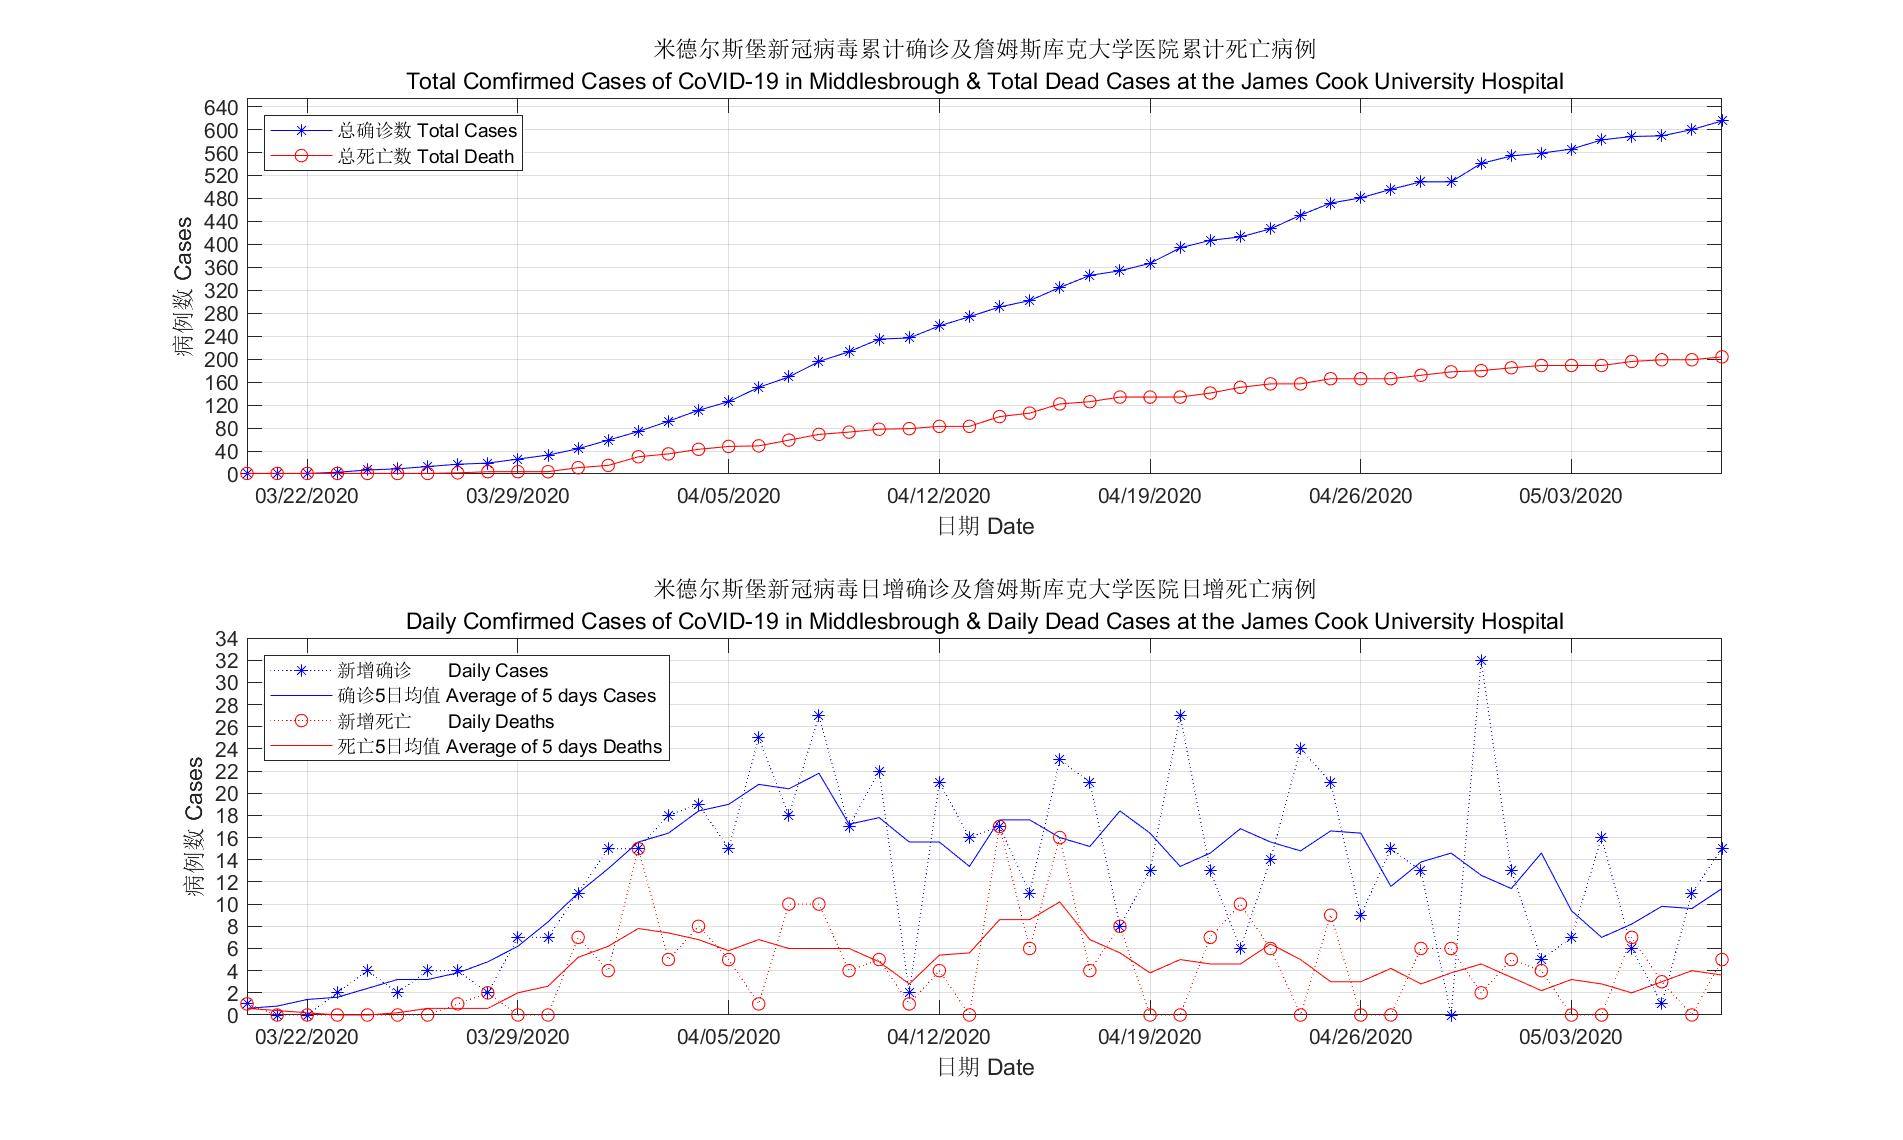
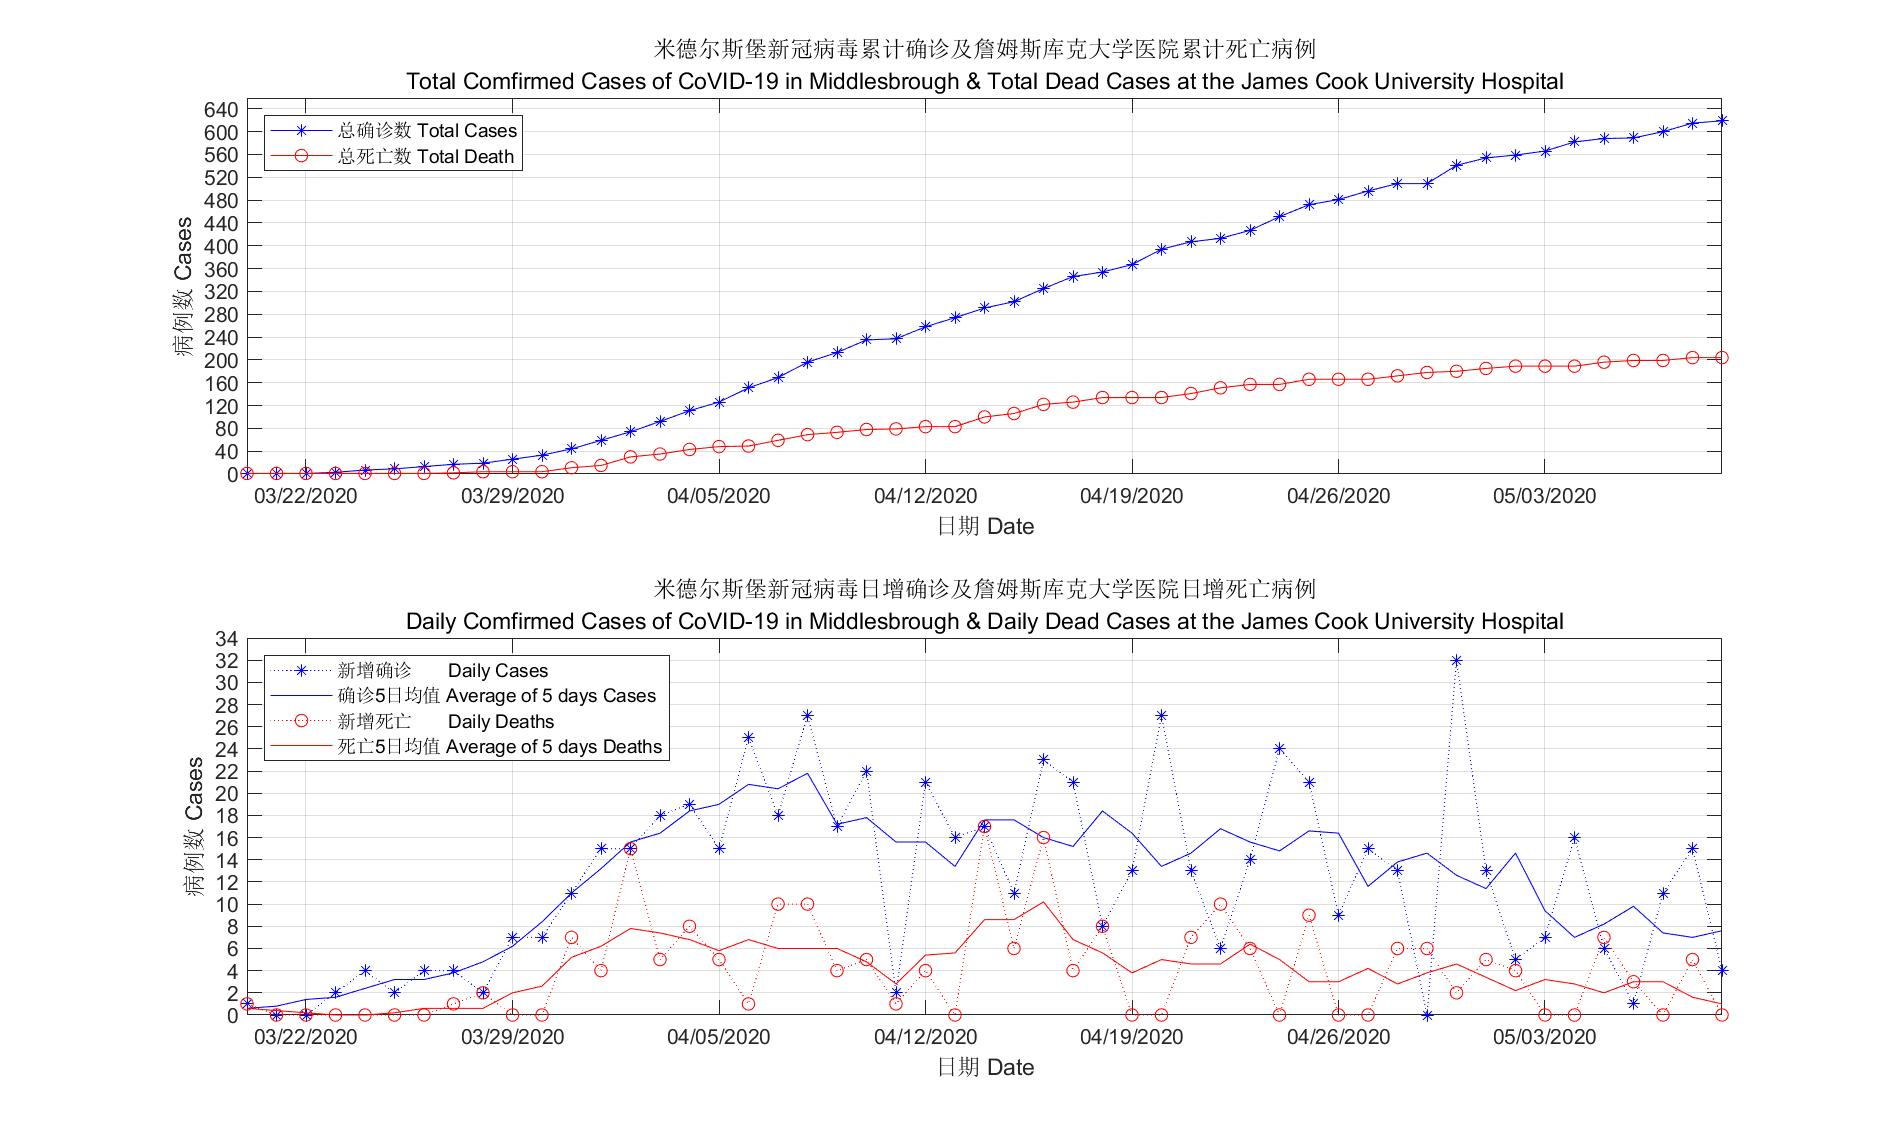
Update

diff --git a/Covid19_TS1.py b/Covid19_TS1.py
@@ -11,11 +11,11 @@ from matplotlib.ticker import MultipleLocator, FormatStrFormatter
 #cases data from the UK government
 cases = [1, 1, 1, 3, 7, 9, 13, 17, 19, 26, 33, 44, 59, 74, 92, 111, 126, 151, 169, 196, 213,\
     235, 237, 258, 274, 291, 302, 325, 346, 354, 367, 394, 407, 413, 427, 451, 472, 481, 496,\
-    509, 509, 541, 554, 559, 566, 582, 588, 589, 600, 615]
+    509, 509, 541, 554, 559, 566, 582, 588, 589, 600, 615, 619]
 #deaths data from NHS
 dcases = [1, 1, 1, 1, 1, 1, 1, 2, 4, 4, 4, 11, 15, 30, 35, 43, 48, 49, 59, 69, 73, 78, 79, 83,\
     83, 100, 106, 122, 126, 134, 134, 134, 141, 151, 157, 157, 166, 166, 166, 172, 178, 180,\
-    185, 189, 189, 189, 196, 199, 199, 204]
+    185, 189, 189, 189, 196, 199, 199, 204, 204]
 
 #Initial
 #Date config

diff --git a/covid19_TS1.m b/covid19_TS1.m
@@ -7,11 +7,11 @@
 %cases data from the UK government
 cases = [1 1 1 3 7 9 13 17 19 26 33 44 59 74 92 111 126 151 169 196 213 ...
     235 237 258 274 291 302 325 346 354 367 394 407 413 427 451 472 481 ...
-    496 509 509 541 554 559 566 582 588 589 600 615];
+    496 509 509 541 554 559 566 582 588 589 600 615 619];
 %deaths data from NHS
 dcases = [1 1 1 1 1 1 1 2 4 4 4 11 15 30 35 43 48 49 59 69 73 78 79 83 ...
     83 100 106 122 126 134 134 134 141 151 157 157 166 166 166 172 178 ...
-    180 185 189 189 189 196 199 199 204];
+    180 185 189 189 189 196 199 199 204 204];
 
 %Initial
 %Date config
